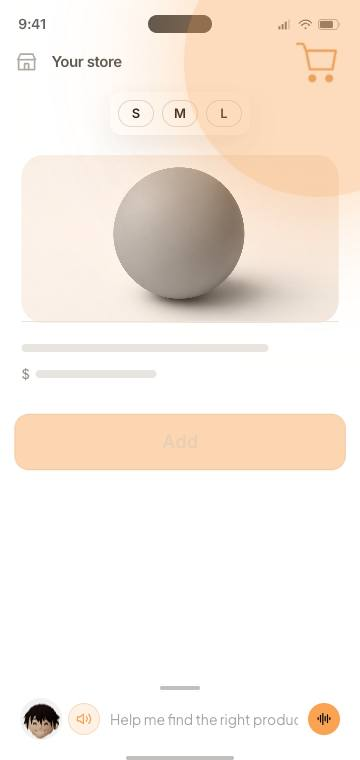
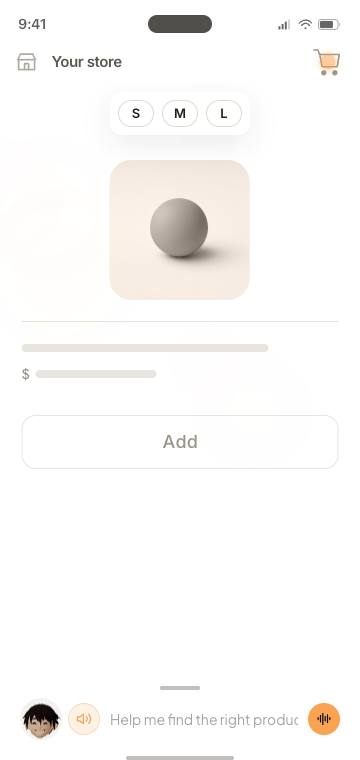
BIZ-411 Circle the pitch doubts around the product photo, then dissolve them in orange smoke.
The question marks share one ring outside the picture. When the doubt closes they break into a soft Bizmis orange smoke.

diff --git a/public/promo/film-engine.js b/public/promo/film-engine.js
@@ -1452,7 +1452,7 @@
   const PROMO_MOMENTS_EXTRA_MS = 5400;
   const PROMO_MOMENTS_SALESPERSON_MS = 800;
   const PROMO_MOMENTS_HOLD_MS = 700;
-  const PROMO_MOMENTS_VAPOR_MS = 480;
+  const PROMO_MOMENTS_VAPOR_MS = 720;
   const PROMO_MOMENTS_CART_GAP_MS = 420;
   const PROMO_MOMENTS_ACCESSORY_MS = 350;
   const PROMO_MOMENTS_COLLAPSE_MS = 560;
@@ -2441,16 +2441,15 @@
     board.appendChild(accessory);
     board.appendChild(momentCompare());
     const orbits = [
-      ['1', '14rem', '-0.4s'],
-      ['2', '16.5rem', '-4.1s'],
-      ['3', '13rem', '-7.6s'],
-      ['4', '15.5rem', '-10.8s'],
+      ['1', '0'],
+      ['2', '-0.25'],
+      ['3', '-0.5'],
+      ['4', '-0.75'],
     ];
-    orbits.forEach(([slot, radius, delay]) => {
+    orbits.forEach(([slot, phase]) => {
       const orbit = document.createElement('span');
       orbit.className = `promo-moments__orbit is-bubble-${slot}`;
-      orbit.style.setProperty('--orbit', radius);
-      orbit.style.setProperty('--orbit-delay', delay);
+      orbit.style.setProperty('--orbit-phase', phase);
       const bubble = document.createElement('span');
       bubble.className = 'promo-moments__bubble';
       const ask = document.createElement('span');
@@ -2461,11 +2460,11 @@
       yes.appendChild(momentMark('yes'));
       bubble.append(ask, yes);
       orbit.appendChild(bubble);
-      for (let bit = 0; bit < 4; bit += 1) {
+      for (let bit = 0; bit < 6; bit += 1) {
         const particle = document.createElement('span');
         particle.className = 'promo-moments__vapor-bit';
-        const angle = (bit / 4) * Math.PI * 2 + Number(slot) * 0.8;
-        const dist = 1.15 + (bit % 2) * 0.45;
+        const angle = (bit / 6) * Math.PI * 2 + Number(slot) * 0.55;
+        const dist = 2.1 + (bit % 3) * 1.25;
         particle.style.setProperty('--dx', `${Math.cos(angle) * dist}rem`);
         particle.style.setProperty('--dy', `${Math.sin(angle) * dist}rem`);
         particle.style.setProperty('--bit-delay', `${bit * 40}ms`);
@@ -2701,6 +2700,63 @@
     board.classList.add('is-entering');
   }
 
+  const DOUBT_BUBBLE_RADIUS_PX = 26;
+  const DOUBT_CORNER_CLEAR_PX = 78;
+  const DOUBT_BOARD_EDGE_PX = 18;
+
+  function clearDoubtOrbitFit(board) {
+    const photo = board?.querySelector('.promo-moments__card.is-pick .promo-moments__photo');
+    if (!photo) return;
+    photo.style.width = '';
+    photo.style.height = '';
+    photo.style.maxWidth = '';
+    photo.style.maxHeight = '';
+    photo.style.marginLeft = '';
+    photo.style.marginRight = '';
+    photo.style.alignSelf = '';
+    photo.style.justifySelf = '';
+  }
+
+  function doubtPhotoSide(span) {
+    const maxRadius = span / 2 - DOUBT_BUBBLE_RADIUS_PX - DOUBT_BOARD_EDGE_PX;
+    const half = (maxRadius - DOUBT_CORNER_CLEAR_PX) / Math.SQRT2;
+    return Math.max(140, half * 2);
+  }
+
+  function placeDoubtOrbits(board) {
+    const photo = board?.querySelector('.promo-moments__card.is-pick .promo-moments__photo');
+    const orbits = board?.querySelectorAll('.promo-moments__orbit');
+    if (!photo || !orbits?.length || !board.offsetWidth || !board.offsetHeight) return;
+    const boardBox = board.getBoundingClientRect();
+    const scaleX = boardBox.width / board.offsetWidth || 1;
+    const meta = board.querySelector('.promo-moments__card.is-pick .promo-moments__meta');
+    const metaBox = meta?.getBoundingClientRect();
+    const metaLeft = metaBox ? (metaBox.left - boardBox.left) / scaleX : board.offsetWidth;
+    const stacked = !metaBox || metaLeft < board.offsetWidth * 0.35;
+    const spanX = stacked ? board.offsetWidth : Math.max(180, metaLeft - 20);
+    const side = Math.min(doubtPhotoSide(board.offsetHeight), doubtPhotoSide(spanX));
+    photo.style.width = `${side}px`;
+    photo.style.height = `${side}px`;
+    photo.style.maxWidth = `${side}px`;
+    photo.style.maxHeight = `${side}px`;
+    photo.style.alignSelf = 'center';
+    photo.style.justifySelf = stacked ? 'center' : 'start';
+    photo.style.marginLeft = stacked ? '0' : `${Math.max(0, (spanX - side) / 2)}px`;
+    photo.style.marginRight = stacked ? '0' : '';
+    const fitted = photo.getBoundingClientRect();
+    if (!fitted.width || !fitted.height) return;
+    const scaleY = boardBox.height / board.offsetHeight || 1;
+    const centerX = (fitted.left + fitted.width / 2 - boardBox.left) / scaleX;
+    const centerY = (fitted.top + fitted.height / 2 - boardBox.top) / scaleY;
+    const fittedSide = Math.min(fitted.width / scaleX, fitted.height / scaleY);
+    const radius = (fittedSide / 2) * Math.SQRT2 + DOUBT_CORNER_CLEAR_PX;
+    orbits.forEach((orbit) => {
+      orbit.style.left = `${centerX}px`;
+      orbit.style.top = `${centerY}px`;
+      orbit.style.setProperty('--orbit', `${radius}px`);
+    });
+  }
+
   function applyMomentPose(stage, pose, options = {}) {
     const board = ensureMomentBoard(stage);
     if (!board || !pose) return;
@@ -2748,6 +2804,14 @@
       startGridLife(board);
     } else {
       stopGridLife();
+    }
+    if (pose === 'doubt' || pose === 'close') {
+      placeDoubtOrbits(board);
+      window.requestAnimationFrame(() => {
+        if (board.dataset.pose === pose) placeDoubtOrbits(board);
+      });
+    } else {
+      clearDoubtOrbitFit(board);
     }
     if (options.instant) {
       void board.offsetWidth;

diff --git a/public/promo/promo-ad.css b/public/promo/promo-ad.css
@@ -4177,11 +4177,9 @@ html.is-promo-opening.is-promo-depart .promo-opening {
 
 .promo-moments__board.is-pose-doubt .promo-moments__orbit,
 .promo-moments__board.is-pose-close .promo-moments__orbit {
-  left: calc(var(--page-pad) + (100cqh - (var(--page-pad) * 2)) / 2);
-  top: 50%;
   opacity: 1;
   animation: promo-moments-orbit var(--promo-moments-orbit, 14s) linear infinite;
-  animation-delay: var(--orbit-delay, 0s);
+  animation-delay: calc(var(--promo-moments-orbit, 14s) * var(--orbit-phase, 0));
 }
 
 .promo-moments__board.is-pose-close .promo-moments__orbit {
@@ -4282,18 +4280,18 @@ html.is-promo-opening.is-promo-depart .promo-opening {
   left: 0;
   top: 0;
   z-index: 7;
-  width: 2.4rem;
-  height: 1.7rem;
-  margin: -0.85rem 0 0 -1.2rem;
+  width: 3.1rem;
+  height: 3.1rem;
+  margin: -1.55rem 0 0 -1.55rem;
   border-radius: 50%;
-  background: color-mix(in srgb, var(--ad-ink) 10%, transparent);
-  filter: blur(8px);
+  background: color-mix(in srgb, var(--bizmis-primary) 58%, white);
+  filter: blur(9px);
   opacity: 0;
   pointer-events: none;
 }
 
 .is-pose-close:not(.is-settled):not(.is-reduced) .promo-moments__vapor-bit {
-  animation: promo-moments-vapor-bit 760ms cubic-bezier(0.22, 1, 0.36, 1) calc(var(--vapor-stagger, 0ms) + var(--bit-delay, 0ms)) forwards;
+  animation: promo-moments-vapor-bit 980ms cubic-bezier(0.22, 1, 0.36, 1) calc(var(--vapor-stagger, 0ms) + var(--bit-delay, 0ms)) forwards;
 }
 
 .is-pose-close:not(.is-settled):not(.is-reduced) .promo-moments__card.is-pick {
@@ -4825,15 +4823,36 @@ html.is-promo-opening.is-promo-depart .promo-opening {
 }
 
 @keyframes promo-moments-vapor {
-  0% { opacity: 1; filter: blur(0); transform: scale(1); background: color-mix(in srgb, var(--ad-white) 45%, transparent); color: var(--ad-ink-3); box-shadow: 0 14px 36px color-mix(in srgb, var(--ad-ink) 6%, transparent); }
-  45% { opacity: 0.72; filter: blur(3px); transform: scale(1.16); background: color-mix(in srgb, var(--ad-ink) 8%, transparent); color: var(--ad-ink-3); box-shadow: 0 0 14px color-mix(in srgb, var(--ad-ink) 10%, transparent); }
-  100% { opacity: 0; filter: blur(16px); transform: scale(1.7); background: transparent; color: transparent; box-shadow: none; }
+  0% {
+    opacity: 1;
+    filter: blur(0);
+    transform: scale(1);
+    background: color-mix(in srgb, var(--ad-white) 55%, transparent);
+    color: var(--ad-ink-3);
+    box-shadow: 0 0 0 0 color-mix(in srgb, var(--bizmis-primary) 0%, transparent);
+  }
+  20% {
+    opacity: 0.9;
+    filter: blur(1px);
+    transform: scale(1.18);
+    background: color-mix(in srgb, var(--bizmis-primary) 72%, white);
+    color: transparent;
+    box-shadow: 0 0 22px 10px color-mix(in srgb, var(--bizmis-primary) 46%, transparent);
+  }
+  100% {
+    opacity: 0;
+    filter: blur(22px);
+    transform: scale(2.4);
+    background: color-mix(in srgb, var(--bizmis-primary) 28%, transparent);
+    color: transparent;
+    box-shadow: 0 0 48px 22px color-mix(in srgb, var(--bizmis-primary) 0%, transparent);
+  }
 }
 
 @keyframes promo-moments-vapor-bit {
-  0% { opacity: 0; transform: translate3d(0, 0, 0) scale(0.8); }
-  35% { opacity: 0.5; transform: translate3d(calc(var(--dx) * 0.35), calc(var(--dy) * 0.35), 0) scale(1); }
-  100% { opacity: 0; transform: translate3d(var(--dx), var(--dy), 0) scale(1.25); filter: blur(16px); }
+  0% { opacity: 0; transform: translate3d(0, 0, 0) scale(0.3); filter: blur(2px); }
+  24% { opacity: 0.82; transform: translate3d(calc(var(--dx) * 0.22), calc(var(--dy) * 0.22), 0) scale(1); filter: blur(8px); }
+  100% { opacity: 0; transform: translate3d(var(--dx), var(--dy), 0) scale(1.9); filter: blur(22px); }
 }
 
 @keyframes promo-moments-orbit {
